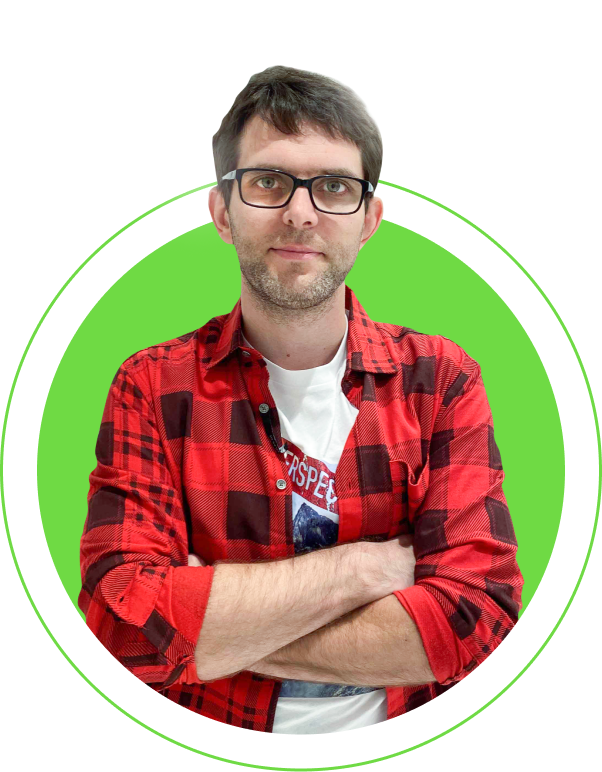
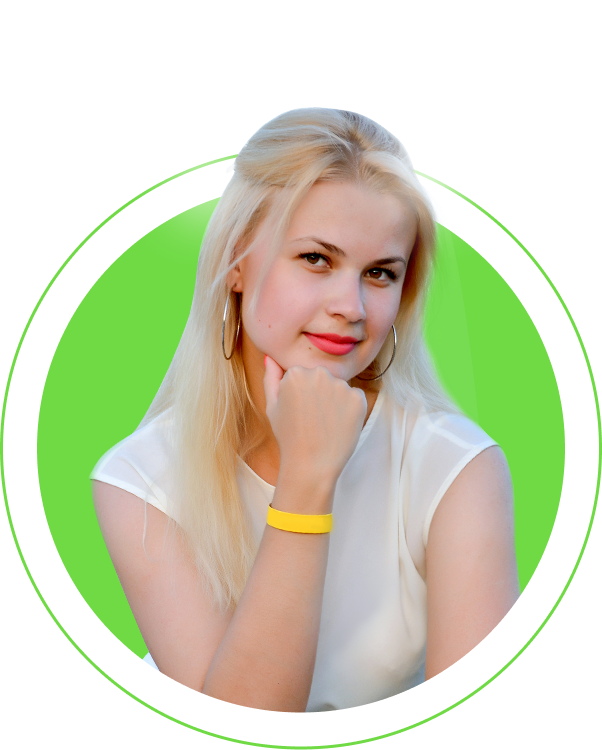
Anastasia portfolio

diff --git a/src/components/HeroComponent.vue b/src/components/HeroComponent.vue
@@ -15,17 +15,13 @@
             <div>
                 <h1 class="main-title">
                     <span class="animate-text">Portfolio</span>
-                    <span >of Malykh Vitaliy</span>
+                    <span ><span>of</span> Anastasiia</span>
                 </h1>
 
                 <h2 class="hero-subtitle">
-                    <svg width="30" aria-hidden="true" data-name="Layer 1" viewBox="0 0 14 14" role="img">
-                        <polygon points="6.98 0 0 0 0 9.21 6.98 14 13.95 9.21 13.95 0 6.98 0" fill="#f86d9c"/>
-                        <polygon points="0 0 14 9.21 14 0 0 0" fill="#fba0bd"/>
-                        <polygon points="0.05 9.21 7.02 14 14 9.21 14 0 0.05 9.21" fill="#f1367a" />
-                    </svg>
+                    <img :src="require('@/assets/images/hero-rate.png')" alt="hero person">
 
-                    <span>top rated plus</span>
+                    <span>top rated</span>
                 </h2>
             </div>
 
@@ -91,22 +87,28 @@ export default {
         height: 100%;
     }
 
-    img {
-        width: 100%;
-        max-width: 100%;
-        height: auto;
-        margin-top: -70px;
+    .hero-img {
+        img {
+            width: 100%;
+            max-width: 100%;
+            height: auto;
+            margin-top: -240px;
+        }
     }
 
     .main-title {
         position: relative;
         white-space: nowrap;
+
+        span > span {
+            font-size: 77px;
+        }
     }
 
     .animate-text {
         position: absolute;
         top: -210px;
-        left: 0;
+        left: -30px;
         display: block;
         font-family: $Caveat;
         font-style: normal;
@@ -156,7 +158,7 @@ export default {
         }
 
         .main-title {
-            font-size: 100px;
+            font-size: 120px;
 
             .animate-text {
                 top: -170px;
@@ -167,12 +169,17 @@ export default {
 
     @include breakpoint(small) {
         .main-title {
-            font-size: 70px;
+            font-size: 90px;
 
             .animate-text {
                 top: -120px;
+                left: -15px;
                 font-size: 135px;
                 text-shadow: -4px 0 #FFFFFF, 0 4px #FFFFFF, 4px 0 #FFFFFF, 0 -4px #FFFFFF;
+            }
+
+            span > span {
+                font-size: 60px;
             }
         }
 
@@ -189,11 +196,15 @@ export default {
         }
 
         .main-title {
-            font-size: 50px;
+            font-size: 66px;
 
             .animate-text {
                 top: -85px;
                 font-size: 96px;
+            }
+
+            span > span {
+                font-size: 41px;
             }
         }
 
@@ -217,14 +228,16 @@ export default {
 
         .hero-img {
             max-width: 300px;
+
+            img {
+                margin-top: -100px;
+            }
         }
 
         .main-title {
-            font-size: 50px;
-
             .animate-text {
-                top: -83px;
-                font-size: 97px;
+                top: -70px;
+                font-size: 90px;
                 text-shadow: -2px 0 #FFFFFF, 0 2px #FFFFFF, 2px 0 #FFFFFF, 0 -2px #FFFFFF;
             }
         }

diff --git a/src/components/ModalComponent.vue b/src/components/ModalComponent.vue
@@ -38,12 +38,6 @@
                         320: {
                           slidesPerView: 1
                         },
-                        575: {
-                          slidesPerView: 2
-                        },
-                        767: {
-                          slidesPerView: 1
-                        },
                         1024: {
                           slidesPerView: 2
                         }
@@ -52,15 +46,15 @@
                 >
                     <swiper-slide>
                         <h4 class="h4">Let's talk!</h4>
-                        <h2>malah.rc@gmail.com</h2>
+                        <h2>anastasiia.nastasiuk@gmail.com</h2>
                     </swiper-slide>
                     <swiper-slide>
                         <h4 class="h4">Let's talk!</h4>
-                        <h2>malah.rc@gmail.com</h2>
+                        <h2>anastasiia.nastasiuk@gmail.com</h2>
                     </swiper-slide>
                     <swiper-slide>
                         <h4 class="h4">Let's talk!</h4>
-                        <h2>malah.rc@gmail.com</h2>
+                        <h2>anastasiia.nastasiuk@gmail.com</h2>
                     </swiper-slide>
                 </swiper>
             </div>
@@ -138,8 +132,8 @@ export default {
 .swiper-slide {
     h2 {
         color: #FFFFFF;
-        font-size: 36px;
-        line-height: 43px;
+        font-size: 26px;
+        line-height: 30px;
     }
 
     h4 {
@@ -238,6 +232,19 @@ export default {
         h2 {
             font-size: 24px;
             line-height: 34px;
+        }
+    }
+}
+
+@include breakpoint(small-tablet-portrait) {
+    .swiper-slide {
+        h4 {
+            font-size: 14px;
+            line-height: 16px;
+        }
+        h2 {
+            font-size: 18px;
+            line-height: 20px;
         }
     }
 }

diff --git a/src/components/HeaderComponent.vue b/src/components/HeaderComponent.vue
@@ -1,7 +1,7 @@
 <template>
     <div class="header show">
         <div class="container">
-            <a href="https://www.upwork.com/freelancers/vitalijmalah" class="link-name">
+            <a href="https://www.upwork.com/freelancers/anastasiia1" class="link-name">
                 <svg width="28" height="28" viewBox="0 0 28 28" fill="none" xmlns="http://www.w3.org/2000/svg">
                     <circle cx="14" cy="14" r="14" fill="#6FDA44"/>
                     <g clip-path="url(#clip0_67_1720)">
@@ -16,10 +16,10 @@
                     </defs>
                 </svg>
 
-                <span>Malykh Vitaliy</span>
+                <span>Anastasiia</span>
             </a>
 
-            <a href="mailto:malah.rc@gmail.com" class="link-email">malah.rc@gmail.com</a>
+            <a href="mailto:anastasiia.nastasiuk@gmail.com" class="link-email">anastasiia.nastasiuk@gmail.com</a>
         </div>
     </div>
 </template>

diff --git a/src/components/FooterComponent.vue b/src/components/FooterComponent.vue
@@ -1,6 +1,6 @@
 <template>
     <div class="footer">
-        <a href="mailto:malah.rc@gmail.com" class="main-title">
+        <a href="mailto:anastasiia.nastasiuk@gmail.com" class="main-title">
             <div class="container">
                 <span>Let's talk</span>
                 <svg class="desktop" width="440" height="96" viewBox="0 0 440 96" fill="none" xmlns="http://www.w3.org/2000/svg">

diff --git a/src/assets/scss/base/_typography.scss b/src/assets/scss/base/_typography.scss
@@ -6,7 +6,7 @@ h1, h2, h3, h4, p, a, li {
 
 h1, .main-title {
     font-family: $BebasNeue;
-    font-size: 124px;
+    font-size: 156px;
     line-height: 100%;
 
     @include breakpoint(extra-small) {
